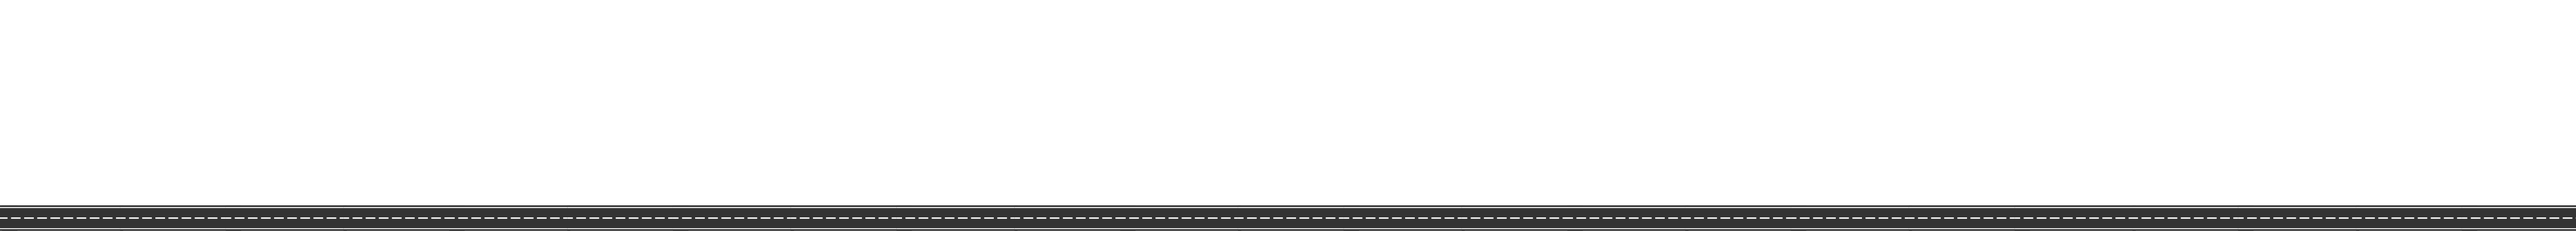
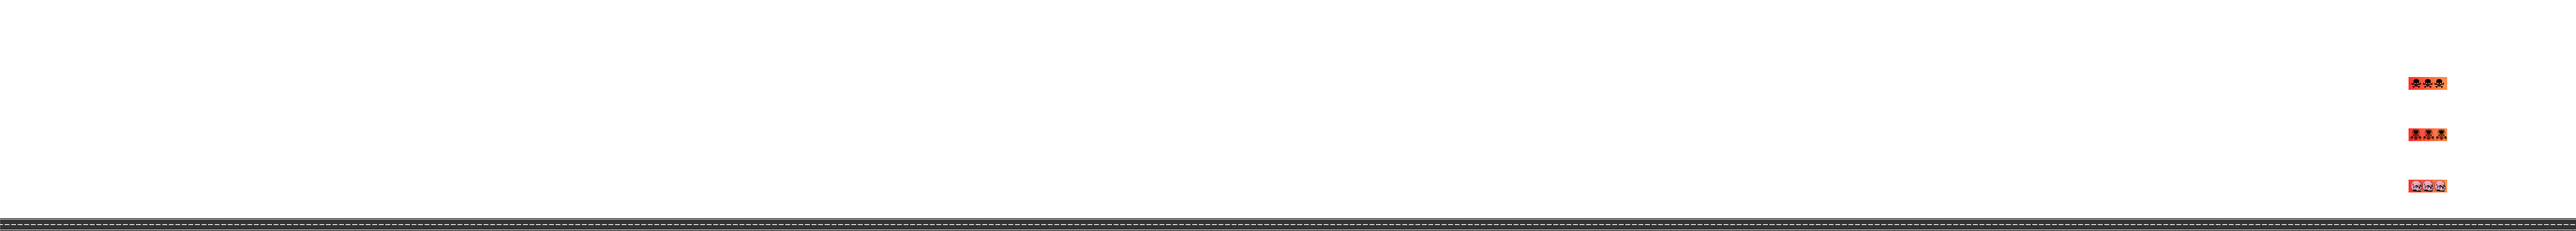
updaye level 5

diff --git a/js/classes/data/collisions.js b/js/classes/data/collisions.js
@@ -88,15 +88,15 @@ const collisionsLevel5 = [
     0, 0, 0, 0, 0, 0, 0, 0, 0, 0, 0, 0, 0, 0, 0, 0, 0, 0, 0, 0, 0, 0, 0, 0, 0, 0, 0, 0, 0, 0, 0, 0, 0, 0, 0, 0, 0, 0, 0, 0, 0, 0, 0, 0, 0, 0, 0, 0, 0, 0, 0, 0, 0, 0, 0, 0, 0, 0, 0, 0, 0, 0, 0, 0, 0, 0, 0, 0, 0, 0, 0, 0, 0, 0, 0, 0, 0, 0, 0, 0, 0, 0, 0, 0, 0, 0, 0, 0, 0, 0, 0, 0, 0, 0, 0, 0, 0, 0, 0, 0, 0, 0, 0, 0, 0, 0, 0, 0, 0, 0, 0, 0, 0, 0, 0, 0, 0, 0, 0, 0, 0, 0, 0, 0, 0, 0, 0, 0, 0, 0, 0, 0, 0, 0, 0, 0, 0, 0, 0, 0, 0, 0, 0, 0, 0, 0, 0, 0, 0, 0, 0, 0, 0, 0, 0, 0, 0, 0, 0, 0, 0, 0, 0, 0, 0, 0, 0, 0, 0, 0, 0, 0, 0, 0, 0, 0, 0, 0, 0, 0, 0, 0, 0, 0, 0, 0, 0, 0, 0, 0, 0, 0, 0, 0, 0, 0, 0, 0, 0, 0,
     0, 0, 0, 0, 0, 0, 0, 0, 0, 0, 0, 0, 0, 0, 0, 0, 0, 0, 0, 0, 0, 0, 0, 0, 0, 0, 0, 0, 0, 0, 0, 0, 0, 0, 0, 0, 0, 0, 0, 0, 0, 0, 0, 0, 0, 0, 0, 0, 0, 0, 0, 0, 0, 0, 0, 0, 0, 0, 0, 0, 0, 0, 0, 0, 0, 0, 0, 0, 0, 0, 0, 0, 0, 0, 0, 0, 0, 0, 0, 0, 0, 0, 0, 0, 0, 0, 0, 0, 0, 0, 0, 0, 0, 0, 0, 0, 0, 0, 0, 0, 0, 0, 0, 0, 0, 0, 0, 0, 0, 0, 0, 0, 0, 0, 0, 0, 0, 0, 0, 0, 0, 0, 0, 0, 0, 0, 0, 0, 0, 0, 0, 0, 0, 0, 0, 0, 0, 0, 0, 0, 0, 0, 0, 0, 0, 0, 0, 0, 0, 0, 0, 0, 0, 0, 0, 0, 0, 0, 0, 0, 0, 0, 0, 0, 0, 0, 0, 0, 0, 0, 0, 0, 0, 0, 0, 0, 0, 0, 0, 0, 0, 0, 0, 0, 0, 0, 0, 0, 0, 0, 0, 0, 0, 0, 0, 0, 0, 0, 0, 0,
     0, 0, 0, 0, 0, 0, 0, 0, 0, 0, 0, 0, 0, 0, 0, 0, 0, 0, 0, 0, 0, 0, 0, 0, 0, 0, 0, 0, 0, 0, 0, 0, 0, 0, 0, 0, 0, 0, 0, 0, 0, 0, 0, 0, 0, 0, 0, 0, 0, 0, 0, 0, 0, 0, 0, 0, 0, 0, 0, 0, 0, 0, 0, 0, 0, 0, 0, 0, 0, 0, 0, 0, 0, 0, 0, 0, 0, 0, 0, 0, 0, 0, 0, 0, 0, 0, 0, 0, 0, 0, 0, 0, 0, 0, 0, 0, 0, 0, 0, 0, 0, 0, 0, 0, 0, 0, 0, 0, 0, 0, 0, 0, 0, 0, 0, 0, 0, 0, 0, 0, 0, 0, 0, 0, 0, 0, 0, 0, 0, 0, 0, 0, 0, 0, 0, 0, 0, 0, 0, 0, 0, 0, 0, 0, 0, 0, 0, 0, 0, 0, 0, 0, 0, 0, 0, 0, 0, 0, 0, 0, 0, 0, 0, 0, 0, 0, 0, 0, 0, 0, 0, 0, 0, 0, 0, 0, 0, 0, 0, 0, 0, 0, 0, 0, 0, 0, 0, 0, 0, 0, 0, 0, 0, 0, 0, 0, 0, 0, 0, 0,
+    0, 0, 0, 0, 0, 0, 0, 0, 0, 0, 0, 0, 0, 0, 0, 0, 0, 0, 0, 0, 0, 0, 0, 0, 0, 0, 0, 0, 0, 0, 0, 0, 0, 0, 0, 0, 0, 0, 0, 0, 0, 0, 0, 0, 0, 0, 0, 0, 0, 0, 0, 0, 0, 0, 0, 0, 0, 0, 0, 0, 0, 0, 0, 0, 0, 0, 0, 0, 0, 0, 0, 0, 0, 0, 0, 0, 0, 0, 0, 0, 0, 0, 0, 0, 0, 0, 0, 0, 0, 0, 0, 0, 0, 0, 0, 0, 0, 0, 0, 0, 0, 0, 0, 0, 0, 0, 0, 0, 0, 0, 0, 0, 0, 0, 0, 0, 0, 0, 0, 0, 0, 0, 0, 0, 0, 0, 0, 0, 0, 0, 0, 0, 0, 0, 0, 0, 0, 0, 0, 0, 0, 0, 0, 0, 0, 0, 0, 0, 0, 0, 0, 0, 0, 0, 0, 0, 0, 0, 0, 0, 0, 0, 0, 0, 0, 0, 0, 0, 0, 0, 0, 0, 0, 0, 0, 0, 0, 0, 0, 0, 0, 0, 0, 0, 0, 0, 0, 1, 1, 1, 0, 0, 0, 0, 0, 0, 0, 0, 0, 0,
     0, 0, 0, 0, 0, 0, 0, 0, 0, 0, 0, 0, 0, 0, 0, 0, 0, 0, 0, 0, 0, 0, 0, 0, 0, 0, 0, 0, 0, 0, 0, 0, 0, 0, 0, 0, 0, 0, 0, 0, 0, 0, 0, 0, 0, 0, 0, 0, 0, 0, 0, 0, 0, 0, 0, 0, 0, 0, 0, 0, 0, 0, 0, 0, 0, 0, 0, 0, 0, 0, 0, 0, 0, 0, 0, 0, 0, 0, 0, 0, 0, 0, 0, 0, 0, 0, 0, 0, 0, 0, 0, 0, 0, 0, 0, 0, 0, 0, 0, 0, 0, 0, 0, 0, 0, 0, 0, 0, 0, 0, 0, 0, 0, 0, 0, 0, 0, 0, 0, 0, 0, 0, 0, 0, 0, 0, 0, 0, 0, 0, 0, 0, 0, 0, 0, 0, 0, 0, 0, 0, 0, 0, 0, 0, 0, 0, 0, 0, 0, 0, 0, 0, 0, 0, 0, 0, 0, 0, 0, 0, 0, 0, 0, 0, 0, 0, 0, 0, 0, 0, 0, 0, 0, 0, 0, 0, 0, 0, 0, 0, 0, 0, 0, 0, 0, 0, 0, 0, 0, 0, 0, 0, 0, 0, 0, 0, 0, 0, 0, 0,
     0, 0, 0, 0, 0, 0, 0, 0, 0, 0, 0, 0, 0, 0, 0, 0, 0, 0, 0, 0, 0, 0, 0, 0, 0, 0, 0, 0, 0, 0, 0, 0, 0, 0, 0, 0, 0, 0, 0, 0, 0, 0, 0, 0, 0, 0, 0, 0, 0, 0, 0, 0, 0, 0, 0, 0, 0, 0, 0, 0, 0, 0, 0, 0, 0, 0, 0, 0, 0, 0, 0, 0, 0, 0, 0, 0, 0, 0, 0, 0, 0, 0, 0, 0, 0, 0, 0, 0, 0, 0, 0, 0, 0, 0, 0, 0, 0, 0, 0, 0, 0, 0, 0, 0, 0, 0, 0, 0, 0, 0, 0, 0, 0, 0, 0, 0, 0, 0, 0, 0, 0, 0, 0, 0, 0, 0, 0, 0, 0, 0, 0, 0, 0, 0, 0, 0, 0, 0, 0, 0, 0, 0, 0, 0, 0, 0, 0, 0, 0, 0, 0, 0, 0, 0, 0, 0, 0, 0, 0, 0, 0, 0, 0, 0, 0, 0, 0, 0, 0, 0, 0, 0, 0, 0, 0, 0, 0, 0, 0, 0, 0, 0, 0, 0, 0, 0, 0, 0, 0, 0, 0, 0, 0, 0, 0, 0, 0, 0, 0, 0,
     0, 0, 0, 0, 0, 0, 0, 0, 0, 0, 0, 0, 0, 0, 0, 0, 0, 0, 0, 0, 0, 0, 0, 0, 0, 0, 0, 0, 0, 0, 0, 0, 0, 0, 0, 0, 0, 0, 0, 0, 0, 0, 0, 0, 0, 0, 0, 0, 0, 0, 0, 0, 0, 0, 0, 0, 0, 0, 0, 0, 0, 0, 0, 0, 0, 0, 0, 0, 0, 0, 0, 0, 0, 0, 0, 0, 0, 0, 0, 0, 0, 0, 0, 0, 0, 0, 0, 0, 0, 0, 0, 0, 0, 0, 0, 0, 0, 0, 0, 0, 0, 0, 0, 0, 0, 0, 0, 0, 0, 0, 0, 0, 0, 0, 0, 0, 0, 0, 0, 0, 0, 0, 0, 0, 0, 0, 0, 0, 0, 0, 0, 0, 0, 0, 0, 0, 0, 0, 0, 0, 0, 0, 0, 0, 0, 0, 0, 0, 0, 0, 0, 0, 0, 0, 0, 0, 0, 0, 0, 0, 0, 0, 0, 0, 0, 0, 0, 0, 0, 0, 0, 0, 0, 0, 0, 0, 0, 0, 0, 0, 0, 0, 0, 0, 0, 0, 0, 0, 0, 0, 0, 0, 0, 0, 0, 0, 0, 0, 0, 0,
+    0, 0, 0, 0, 0, 0, 0, 0, 0, 0, 0, 0, 0, 0, 0, 0, 0, 0, 0, 0, 0, 0, 0, 0, 0, 0, 0, 0, 0, 0, 0, 0, 0, 0, 0, 0, 0, 0, 0, 0, 0, 0, 0, 0, 0, 0, 0, 0, 0, 0, 0, 0, 0, 0, 0, 0, 0, 0, 0, 0, 0, 0, 0, 0, 0, 0, 0, 0, 0, 0, 0, 0, 0, 0, 0, 0, 0, 0, 0, 0, 0, 0, 0, 0, 0, 0, 0, 0, 0, 0, 0, 0, 0, 0, 0, 0, 0, 0, 0, 0, 0, 0, 0, 0, 0, 0, 0, 0, 0, 0, 0, 0, 0, 0, 0, 0, 0, 0, 0, 0, 0, 0, 0, 0, 0, 0, 0, 0, 0, 0, 0, 0, 0, 0, 0, 0, 0, 0, 0, 0, 0, 0, 0, 0, 0, 0, 0, 0, 0, 0, 0, 0, 0, 0, 0, 0, 0, 0, 0, 0, 0, 0, 0, 0, 0, 0, 0, 0, 0, 0, 0, 0, 0, 0, 0, 0, 0, 0, 0, 0, 0, 0, 0, 0, 0, 0, 0, 1, 1, 1, 0, 0, 0, 0, 0, 0, 0, 0, 0, 0,
     0, 0, 0, 0, 0, 0, 0, 0, 0, 0, 0, 0, 0, 0, 0, 0, 0, 0, 0, 0, 0, 0, 0, 0, 0, 0, 0, 0, 0, 0, 0, 0, 0, 0, 0, 0, 0, 0, 0, 0, 0, 0, 0, 0, 0, 0, 0, 0, 0, 0, 0, 0, 0, 0, 0, 0, 0, 0, 0, 0, 0, 0, 0, 0, 0, 0, 0, 0, 0, 0, 0, 0, 0, 0, 0, 0, 0, 0, 0, 0, 0, 0, 0, 0, 0, 0, 0, 0, 0, 0, 0, 0, 0, 0, 0, 0, 0, 0, 0, 0, 0, 0, 0, 0, 0, 0, 0, 0, 0, 0, 0, 0, 0, 0, 0, 0, 0, 0, 0, 0, 0, 0, 0, 0, 0, 0, 0, 0, 0, 0, 0, 0, 0, 0, 0, 0, 0, 0, 0, 0, 0, 0, 0, 0, 0, 0, 0, 0, 0, 0, 0, 0, 0, 0, 0, 0, 0, 0, 0, 0, 0, 0, 0, 0, 0, 0, 0, 0, 0, 0, 0, 0, 0, 0, 0, 0, 0, 0, 0, 0, 0, 0, 0, 0, 0, 0, 0, 0, 0, 0, 0, 0, 0, 0, 0, 0, 0, 0, 0, 0,
     0, 0, 0, 0, 0, 0, 0, 0, 0, 0, 0, 0, 0, 0, 0, 0, 0, 0, 0, 0, 0, 0, 0, 0, 0, 0, 0, 0, 0, 0, 0, 0, 0, 0, 0, 0, 0, 0, 0, 0, 0, 0, 0, 0, 0, 0, 0, 0, 0, 0, 0, 0, 0, 0, 0, 0, 0, 0, 0, 0, 0, 0, 0, 0, 0, 0, 0, 0, 0, 0, 0, 0, 0, 0, 0, 0, 0, 0, 0, 0, 0, 0, 0, 0, 0, 0, 0, 0, 0, 0, 0, 0, 0, 0, 0, 0, 0, 0, 0, 0, 0, 0, 0, 0, 0, 0, 0, 0, 0, 0, 0, 0, 0, 0, 0, 0, 0, 0, 0, 0, 0, 0, 0, 0, 0, 0, 0, 0, 0, 0, 0, 0, 0, 0, 0, 0, 0, 0, 0, 0, 0, 0, 0, 0, 0, 0, 0, 0, 0, 0, 0, 0, 0, 0, 0, 0, 0, 0, 0, 0, 0, 0, 0, 0, 0, 0, 0, 0, 0, 0, 0, 0, 0, 0, 0, 0, 0, 0, 0, 0, 0, 0, 0, 0, 0, 0, 0, 0, 0, 0, 0, 0, 0, 0, 0, 0, 0, 0, 0, 0,
     0, 0, 0, 0, 0, 0, 0, 0, 0, 0, 0, 0, 0, 0, 0, 0, 0, 0, 0, 0, 0, 0, 0, 0, 0, 0, 0, 0, 0, 0, 0, 0, 0, 0, 0, 0, 0, 0, 0, 0, 0, 0, 0, 0, 0, 0, 0, 0, 0, 0, 0, 0, 0, 0, 0, 0, 0, 0, 0, 0, 0, 0, 0, 0, 0, 0, 0, 0, 0, 0, 0, 0, 0, 0, 0, 0, 0, 0, 0, 0, 0, 0, 0, 0, 0, 0, 0, 0, 0, 0, 0, 0, 0, 0, 0, 0, 0, 0, 0, 0, 0, 0, 0, 0, 0, 0, 0, 0, 0, 0, 0, 0, 0, 0, 0, 0, 0, 0, 0, 0, 0, 0, 0, 0, 0, 0, 0, 0, 0, 0, 0, 0, 0, 0, 0, 0, 0, 0, 0, 0, 0, 0, 0, 0, 0, 0, 0, 0, 0, 0, 0, 0, 0, 0, 0, 0, 0, 0, 0, 0, 0, 0, 0, 0, 0, 0, 0, 0, 0, 0, 0, 0, 0, 0, 0, 0, 0, 0, 0, 0, 0, 0, 0, 0, 0, 0, 0, 0, 0, 0, 0, 0, 0, 0, 0, 0, 0, 0, 0, 0,
-    0, 0, 0, 0, 0, 0, 0, 0, 0, 0, 0, 0, 0, 0, 0, 0, 0, 0, 0, 0, 0, 0, 0, 0, 0, 0, 0, 0, 0, 0, 0, 0, 0, 0, 0, 0, 0, 0, 0, 0, 0, 0, 0, 0, 0, 0, 0, 0, 0, 0, 0, 0, 0, 0, 0, 0, 0, 0, 0, 0, 0, 0, 0, 0, 0, 0, 0, 0, 0, 0, 0, 0, 0, 0, 0, 0, 0, 0, 0, 0, 0, 0, 0, 0, 0, 0, 0, 0, 0, 0, 0, 0, 0, 0, 0, 0, 0, 0, 0, 0, 0, 0, 0, 0, 0, 0, 0, 0, 0, 0, 0, 0, 0, 0, 0, 0, 0, 0, 0, 0, 0, 0, 0, 0, 0, 0, 0, 0, 0, 0, 0, 0, 0, 0, 0, 0, 0, 0, 0, 0, 0, 0, 0, 0, 0, 0, 0, 0, 0, 0, 0, 0, 0, 0, 0, 0, 0, 0, 0, 0, 0, 0, 0, 0, 0, 0, 0, 0, 0, 0, 0, 0, 0, 0, 0, 0, 0, 0, 0, 0, 0, 0, 0, 0, 0, 0, 0, 0, 0, 0, 0, 0, 0, 0, 0, 0, 0, 0, 0, 0,
-    0, 0, 0, 0, 0, 0, 0, 0, 0, 0, 0, 0, 0, 0, 0, 0, 0, 0, 0, 0, 0, 0, 0, 0, 0, 0, 0, 0, 0, 0, 0, 0, 0, 0, 0, 0, 0, 0, 0, 0, 0, 0, 0, 0, 0, 0, 0, 0, 0, 0, 0, 0, 0, 0, 0, 0, 0, 0, 0, 0, 0, 0, 0, 0, 0, 0, 0, 0, 0, 0, 0, 0, 0, 0, 0, 0, 0, 0, 0, 0, 0, 0, 0, 0, 0, 0, 0, 0, 0, 0, 0, 0, 0, 0, 0, 0, 0, 0, 0, 0, 0, 0, 0, 0, 0, 0, 0, 0, 0, 0, 0, 0, 0, 0, 0, 0, 0, 0, 0, 0, 0, 0, 0, 0, 0, 0, 0, 0, 0, 0, 0, 0, 0, 0, 0, 0, 0, 0, 0, 0, 0, 0, 0, 0, 0, 0, 0, 0, 0, 0, 0, 0, 0, 0, 0, 0, 0, 0, 0, 0, 0, 0, 0, 0, 0, 0, 0, 0, 0, 0, 0, 0, 0, 0, 0, 0, 0, 0, 0, 0, 0, 0, 0, 0, 0, 0, 0, 0, 0, 0, 0, 0, 0, 0, 0, 0, 0, 0, 0, 0,
-    0, 0, 0, 0, 0, 0, 0, 0, 0, 0, 0, 0, 0, 0, 0, 0, 0, 0, 0, 0, 0, 0, 0, 0, 0, 0, 0, 0, 0, 0, 0, 0, 0, 0, 0, 0, 0, 0, 0, 0, 0, 0, 0, 0, 0, 0, 0, 0, 0, 0, 0, 0, 0, 0, 0, 0, 0, 0, 0, 0, 0, 0, 0, 0, 0, 0, 0, 0, 0, 0, 0, 0, 0, 0, 0, 0, 0, 0, 0, 0, 0, 0, 0, 0, 0, 0, 0, 0, 0, 0, 0, 0, 0, 0, 0, 0, 0, 0, 0, 0, 0, 0, 0, 0, 0, 0, 0, 0, 0, 0, 0, 0, 0, 0, 0, 0, 0, 0, 0, 0, 0, 0, 0, 0, 0, 0, 0, 0, 0, 0, 0, 0, 0, 0, 0, 0, 0, 0, 0, 0, 0, 0, 0, 0, 0, 0, 0, 0, 0, 0, 0, 0, 0, 0, 0, 0, 0, 0, 0, 0, 0, 0, 0, 0, 0, 0, 0, 0, 0, 0, 0, 0, 0, 0, 0, 0, 0, 0, 0, 0, 0, 0, 0, 0, 0, 0, 0, 0, 0, 0, 0, 0, 0, 0, 0, 0, 0, 0, 0, 0,
+    0, 0, 0, 0, 0, 0, 0, 0, 0, 0, 0, 0, 0, 0, 0, 0, 0, 0, 0, 0, 0, 0, 0, 0, 0, 0, 0, 0, 0, 0, 0, 0, 0, 0, 0, 0, 0, 0, 0, 0, 0, 0, 0, 0, 0, 0, 0, 0, 0, 0, 0, 0, 0, 0, 0, 0, 0, 0, 0, 0, 0, 0, 0, 0, 0, 0, 0, 0, 0, 0, 0, 0, 0, 0, 0, 0, 0, 0, 0, 0, 0, 0, 0, 0, 0, 0, 0, 0, 0, 0, 0, 0, 0, 0, 0, 0, 0, 0, 0, 0, 0, 0, 0, 0, 0, 0, 0, 0, 0, 0, 0, 0, 0, 0, 0, 0, 0, 0, 0, 0, 0, 0, 0, 0, 0, 0, 0, 0, 0, 0, 0, 0, 0, 0, 0, 0, 0, 0, 0, 0, 0, 0, 0, 0, 0, 0, 0, 0, 0, 0, 0, 0, 0, 0, 0, 0, 0, 0, 0, 0, 0, 0, 0, 0, 0, 0, 0, 0, 0, 0, 0, 0, 0, 0, 0, 0, 0, 0, 0, 0, 0, 0, 0, 0, 0, 0, 0, 1, 1, 1, 0, 0, 0, 0, 0, 0, 0, 0, 0, 0,
     0, 0, 0, 0, 0, 0, 0, 0, 0, 0, 0, 0, 0, 0, 0, 0, 0, 0, 0, 0, 0, 0, 0, 0, 0, 0, 0, 0, 0, 0, 0, 0, 0, 0, 0, 0, 0, 0, 0, 0, 0, 0, 0, 0, 0, 0, 0, 0, 0, 0, 0, 0, 0, 0, 0, 0, 0, 0, 0, 0, 0, 0, 0, 0, 0, 0, 0, 0, 0, 0, 0, 0, 0, 0, 0, 0, 0, 0, 0, 0, 0, 0, 0, 0, 0, 0, 0, 0, 0, 0, 0, 0, 0, 0, 0, 0, 0, 0, 0, 0, 0, 0, 0, 0, 0, 0, 0, 0, 0, 0, 0, 0, 0, 0, 0, 0, 0, 0, 0, 0, 0, 0, 0, 0, 0, 0, 0, 0, 0, 0, 0, 0, 0, 0, 0, 0, 0, 0, 0, 0, 0, 0, 0, 0, 0, 0, 0, 0, 0, 0, 0, 0, 0, 0, 0, 0, 0, 0, 0, 0, 0, 0, 0, 0, 0, 0, 0, 0, 0, 0, 0, 0, 0, 0, 0, 0, 0, 0, 0, 0, 0, 0, 0, 0, 0, 0, 0, 0, 0, 0, 0, 0, 0, 0, 0, 0, 0, 0, 0, 0,
     0, 0, 0, 0, 0, 0, 0, 0, 0, 0, 0, 0, 0, 0, 0, 0, 0, 0, 0, 0, 0, 0, 0, 0, 0, 0, 0, 0, 0, 0, 0, 0, 0, 0, 0, 0, 0, 0, 0, 0, 0, 0, 0, 0, 0, 0, 0, 0, 0, 0, 0, 0, 0, 0, 0, 0, 0, 0, 0, 0, 0, 0, 0, 0, 0, 0, 0, 0, 0, 0, 0, 0, 0, 0, 0, 0, 0, 0, 0, 0, 0, 0, 0, 0, 0, 0, 0, 0, 0, 0, 0, 0, 0, 0, 0, 0, 0, 0, 0, 0, 0, 0, 0, 0, 0, 0, 0, 0, 0, 0, 0, 0, 0, 0, 0, 0, 0, 0, 0, 0, 0, 0, 0, 0, 0, 0, 0, 0, 0, 0, 0, 0, 0, 0, 0, 0, 0, 0, 0, 0, 0, 0, 0, 0, 0, 0, 0, 0, 0, 0, 0, 0, 0, 0, 0, 0, 0, 0, 0, 0, 0, 0, 0, 0, 0, 0, 0, 0, 0, 0, 0, 0, 0, 0, 0, 0, 0, 0, 0, 0, 0, 0, 0, 0, 0, 0, 0, 0, 0, 0, 0, 0, 0, 0, 0, 0, 0, 0, 0, 0,
     1, 1, 1, 1, 1, 1, 1, 1, 1, 1, 1, 1, 1, 1, 1, 1, 1, 1, 1, 1, 1, 1, 1, 1, 1, 1, 1, 1, 1, 1, 1, 1, 1, 1, 1, 1, 1, 1, 1, 1, 1, 1, 1, 1, 1, 1, 1, 1, 1, 1, 1, 1, 1, 1, 1, 1, 1, 1, 1, 1, 1, 1, 1, 1, 1, 1, 1, 1, 1, 1, 1, 1, 1, 1, 1, 1, 1, 1, 1, 1, 1, 1, 1, 1, 1, 1, 1, 1, 1, 1, 1, 1, 1, 1, 1, 1, 1, 1, 1, 1, 1, 1, 1, 1, 1, 1, 1, 1, 1, 1, 1, 1, 1, 1, 1, 1, 1, 1, 1, 1, 1, 1, 1, 1, 1, 1, 1, 1, 1, 1, 1, 1, 1, 1, 1, 1, 1, 1, 1, 1, 1, 1, 1, 1, 1, 1, 1, 1, 1, 1, 1, 1, 1, 1, 1, 1, 1, 1, 1, 1, 1, 1, 1, 1, 1, 1, 1, 1, 1, 1, 1, 1, 1, 1, 1, 1, 1, 1, 1, 1, 1, 1, 1, 1, 1, 1, 1, 1, 1, 1, 1, 1, 1, 1, 1, 1, 1, 1, 1, 1

diff --git a/js/levels.js b/js/levels.js
@@ -15973,11 +15973,119 @@ let levels = {
                     identificador: 'corazon',
                     vida: 1,
                 }),
+                new Sprite({
+                    position: {
+                        x: 5980,
+                        y: 415
+                    },
+                    hitboxO: {
+                        x: 0, 
+                        y: 0, 
+                        width: 32, 
+                        height: 36,
+                        disX: 18,
+                        disY: 7,
+                        efectoX: -4,
+                        efectoY: -4,
+                        escala: 1,
+                        sourc: 'hit4',
+                        rate: 10,
+                    },
+                    imageSrc: './img/objetos/corazon.png',
+                    frameRate: 4,
+                    frameBuffer: 6,
+                    loop: true,
+                    autoplay: true,
+                    scale: 1,
+                    identificador: 'corazon',
+                    vida: 1,
+                }),
+                new Sprite({
+                    position: {
+                        x: 6047,
+                        y: 415
+                    },
+                    hitboxO: {
+                        x: 0, 
+                        y: 0, 
+                        width: 32, 
+                        height: 36,
+                        disX: 18,
+                        disY: 7,
+                        efectoX: -4,
+                        efectoY: -4,
+                        escala: 1,
+                        sourc: 'hit4',
+                        rate: 10,
+                    },
+                    imageSrc: './img/objetos/corazon.png',
+                    frameRate: 4,
+                    frameBuffer: 6,
+                    loop: true,
+                    autoplay: true,
+                    scale: 1,
+                    identificador: 'corazon',
+                    vida: 1,
+                }),
+                new Sprite({
+                    position: {
+                        x: 5980,
+                        y: 287
+                    },
+                    hitboxO: {
+                        x: 0, 
+                        y: 0, 
+                        width: 32, 
+                        height: 36,
+                        disX: 18,
+                        disY: 7,
+                        efectoX: -4,
+                        efectoY: -4,
+                        escala: 1,
+                        sourc: 'hit4',
+                        rate: 10,
+                    },
+                    imageSrc: './img/objetos/corazon.png',
+                    frameRate: 4,
+                    frameBuffer: 6,
+                    loop: true,
+                    autoplay: true,
+                    scale: 1,
+                    identificador: 'corazon',
+                    vida: 1,
+                }),
+                new Sprite({
+                    position: {
+                        x: 6047,
+                        y: 287
+                    },
+                    hitboxO: {
+                        x: 0, 
+                        y: 0, 
+                        width: 32, 
+                        height: 36,
+                        disX: 18,
+                        disY: 7,
+                        efectoX: -4,
+                        efectoY: -4,
+                        escala: 1,
+                        sourc: 'hit4',
+                        rate: 10,
+                    },
+                    imageSrc: './img/objetos/corazon.png',
+                    frameRate: 4,
+                    frameBuffer: 6,
+                    loop: true,
+                    autoplay: true,
+                    scale: 1,
+                    identificador: 'corazon',
+                    vida: 1,
+                }),
                 // ================ Puerta =======================
                 new Sprite({
                     position: {
-                        x: 6100,
-                        y: 360
+                        x: 5975,
+                        y: 5
                     },
                     hitboxO: {
                         x: 0, 

diff --git a/index.js b/index.js
@@ -159,7 +159,7 @@ let player = new Player({
     }
 })
 
-let level = 5
+let level = 0
 
 const keys = {
     ArrowUp: { 
